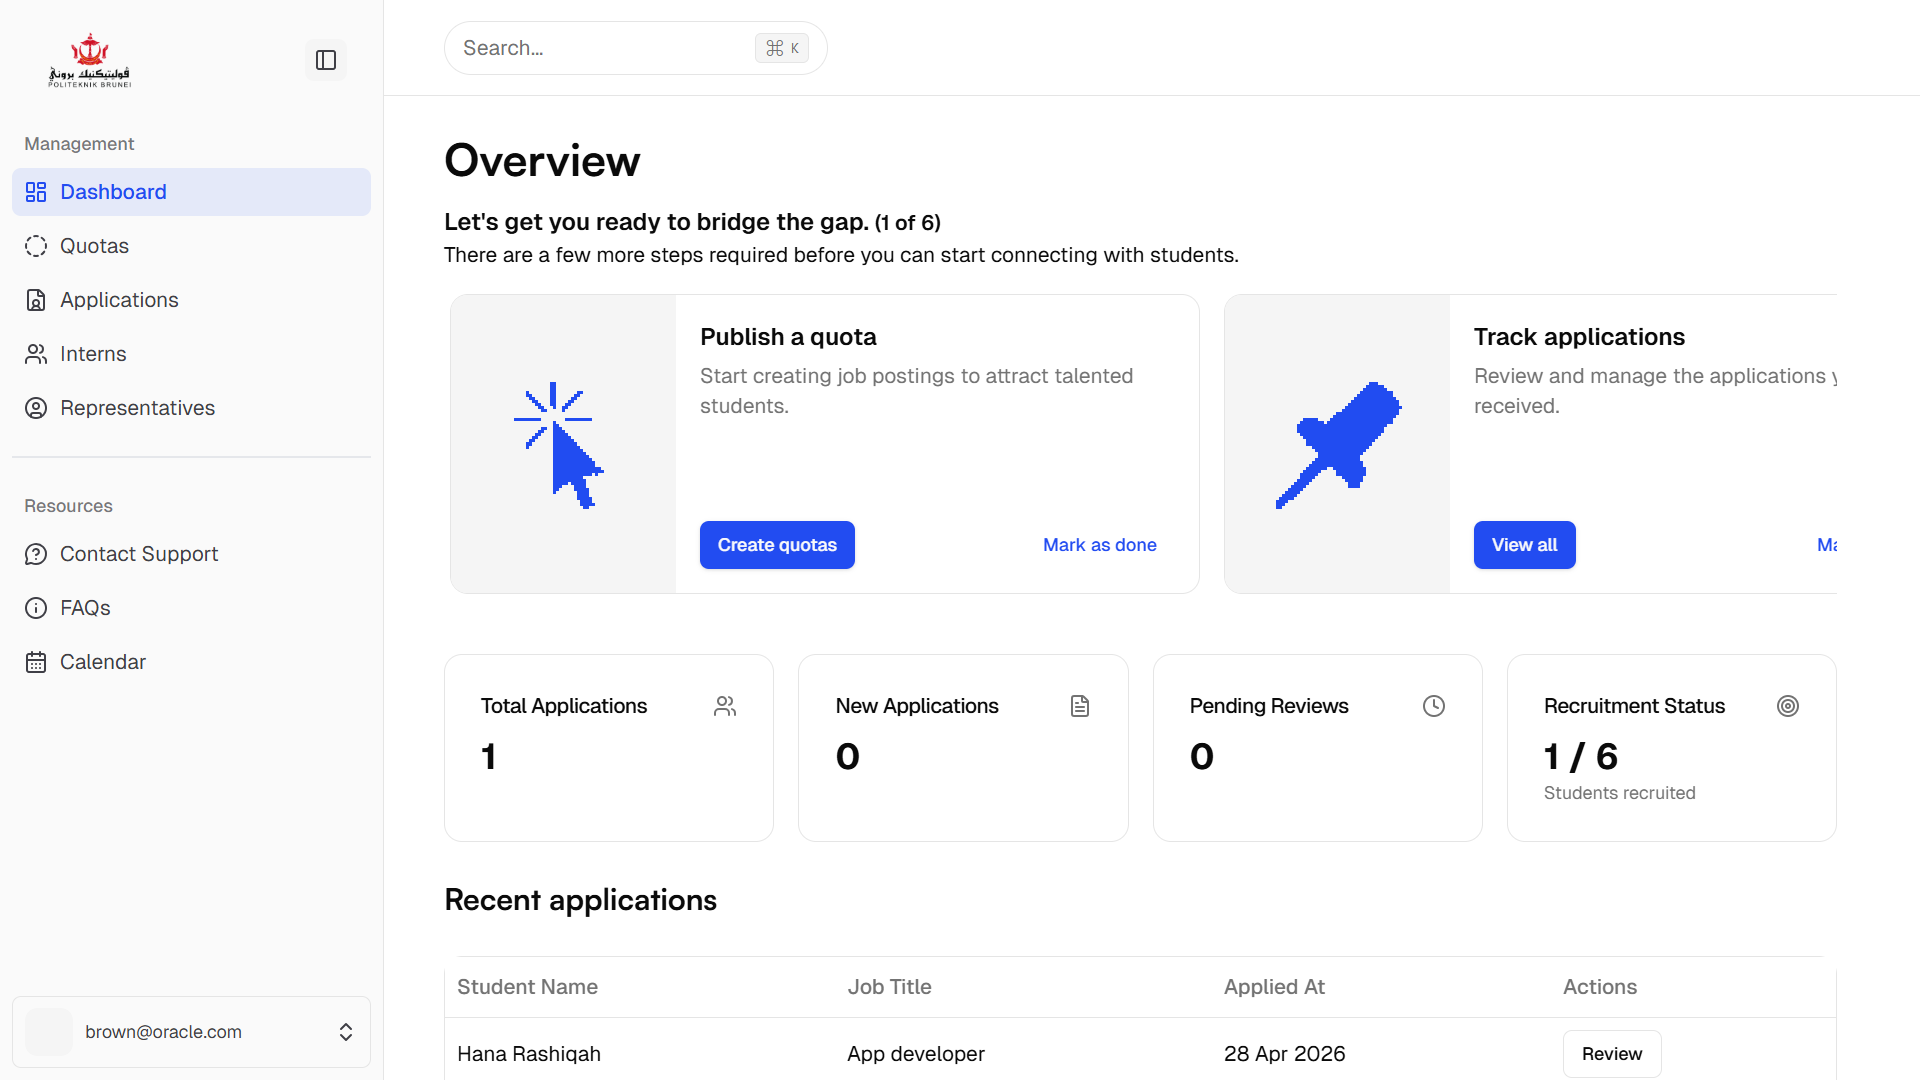
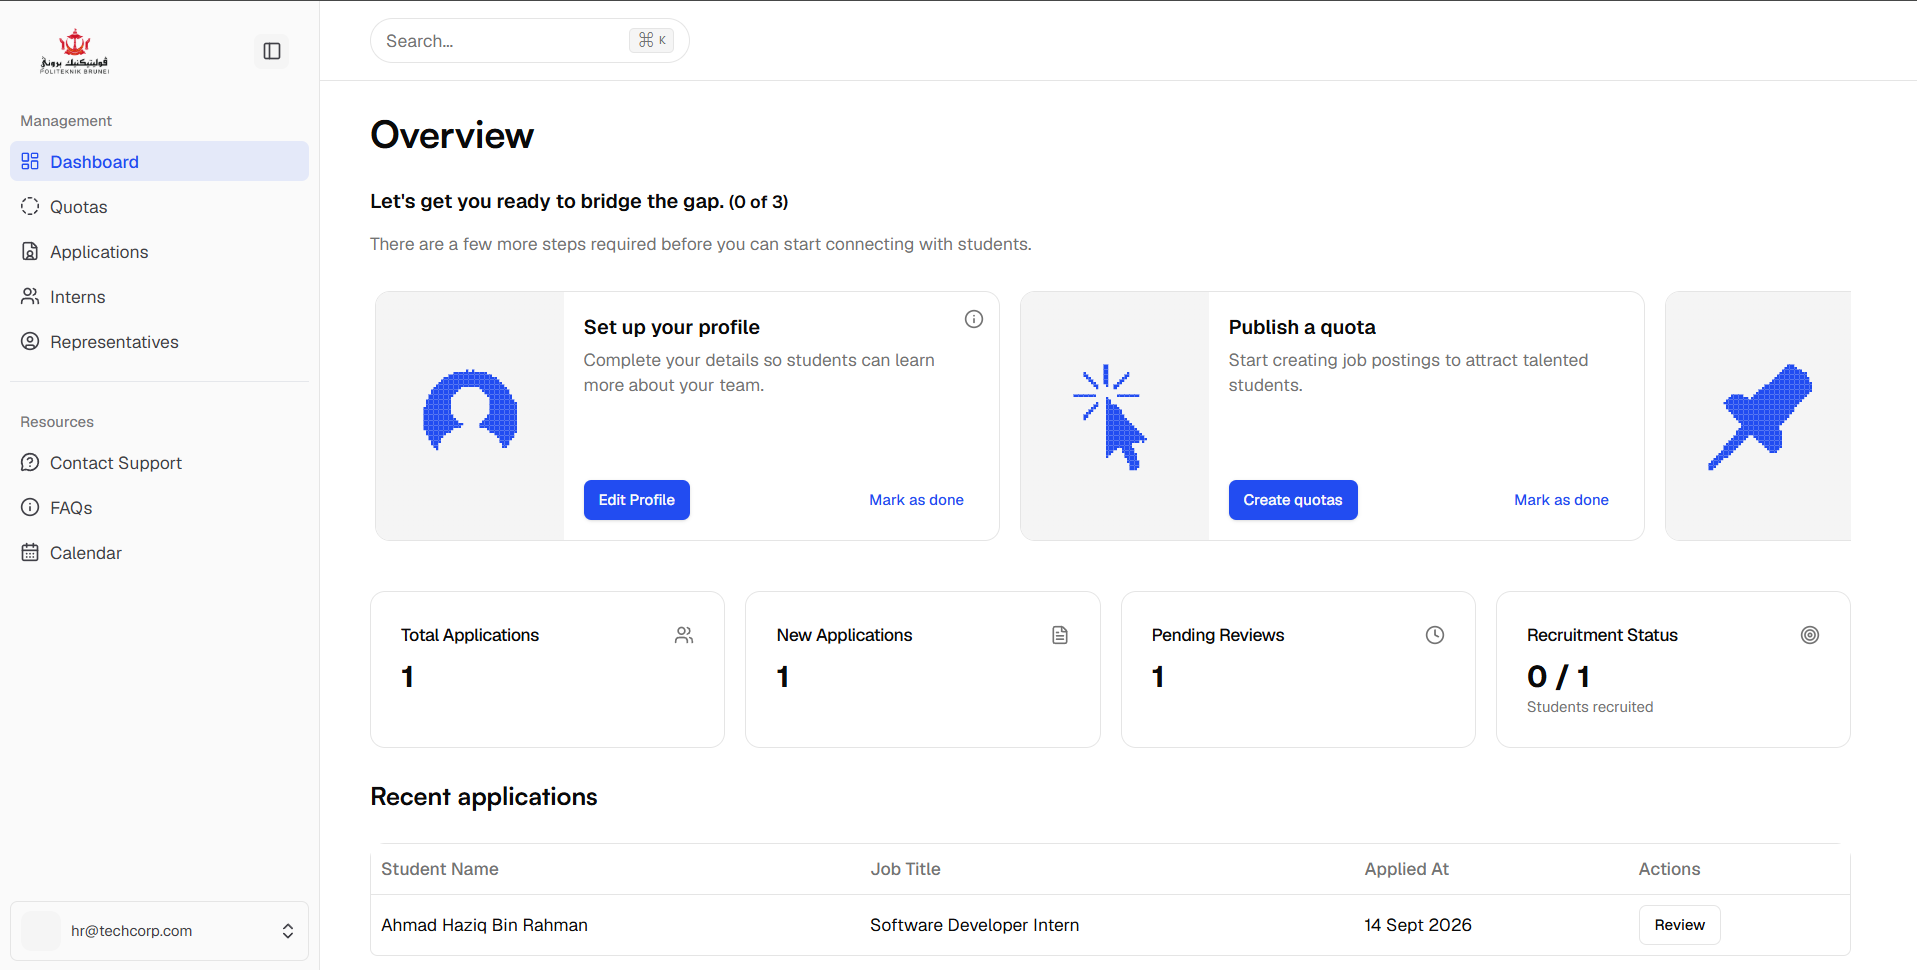
Update Landing Page Screenshots

diff --git a/resources/js/Pages/Welcome.tsx b/resources/js/Pages/Welcome.tsx
@@ -128,14 +128,14 @@ export default function Welcome({
                                     </p>
                                     <FollowCursor label={item.cursorLabel}>
                                         <div
-                                            className="mt-4 w-full aspect-video rounded-2xl bg-white/10 border border-white/10 overflow-hidden"
+                                            className="mt-4 w-full rounded-2xl bg-white/10 border border-white/10 overflow-hidden"
                                             onMouseEnter={() => decryptRefs.current[i]?.start()}
                                             onMouseLeave={() => decryptRefs.current[i]?.stop()}
                                         >
                                             <img
                                                 src={`/images/screenshot-${item.number}.png`}
                                                 alt={item.label}
-                                                className="w-full h-full object-cover object-top"
+                                                className="w-full h-auto object-contain"
                                             />
                                         </div>
                                     </FollowCursor>
